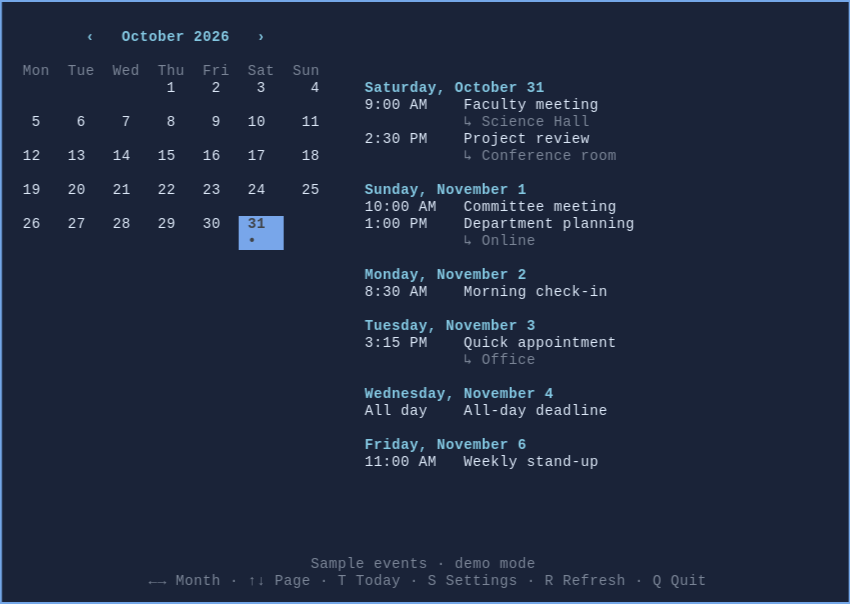
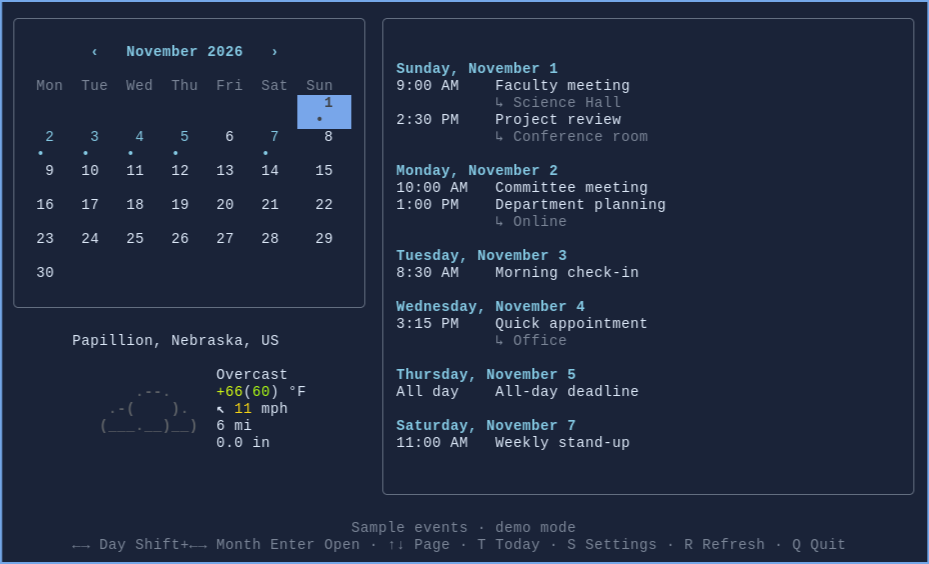
docs: describe completed calendar layout and navigation
Document responsive bordered panes, theme-aware date selection, inline weather and its optional curl requirement. Include the current application screenshot and clarify refresh, pagination, and CLI behavior.

diff --git a/README.md b/README.md
@@ -24,14 +24,18 @@ Sometimes you don't need to manage your calendar. You just need to read the damn
 - Recurring events, exceptions, cancellations, time zones, all-day and multiday appointments.
 - Cached calendars displayed immediately, nonblocking TUI refreshes, and offline fallback.
 - Automatic terminal color inheritance and WCAG AA text contrast adjustment (4.5:1) when the terminal reports its palette.
-- Keyboard navigation and clickable calendar dates.
+- Day-by-day keyboard selection with a terminal-theme-aware highlight, plus clickable calendar dates.
+- Optional current weather beneath the calendar in wide layouts, using wttr.is's own terminal artwork.
 - JSON CLI for scripts and native Waybar JSON integration.
 - No background service. It reads calendars when you run it. Revolutionary restraint.
 
 ## Screenshots
 
-Screenshots will go here. None are included yet; run `caltui --demo` to see the
-actual interface in your own terminal, with your own colors.
+![calTUI with independently bordered calendar and agenda panes, a selected date, and inline weather](assets/caltui-screenshot.png)
+
+The real application in Foot, with sample events and current weather. Run
+`caltui --demo` to see it with your own terminal colors. No artistic license
+required.
 
 ## Requirements
 
@@ -43,6 +47,11 @@ list of direct third-party dependencies is:
 - **recurring-ical-events**
 - **python-dateutil**
 - **rich**
+
+`curl` on your `PATH` and network access to `https://wttr.is` are needed only
+for optional inline weather. Missing curl or a failed request simply hides the
+report; the calendar and agenda carry on without a meteorological opinion.
+No weather library or configuration is required.
 
 An interactive terminal is needed for the TUI; Waybar is optional. Linux is the
 tested platform. The custom terminal color-query/input integration and PTY tests
@@ -160,14 +169,17 @@ without `--demo` require a configured calendar.
 | `↑` / `↓` | Previous / next agenda page |
 | `c` | Calendar view |
 | `a` | Agenda view |
-| `t` | Return to today |
+| `t` | Reset the selection, displayed month, and agenda to today |
 | `s` | Open configuration in your terminal editor |
-| `r` | Force subscription refresh |
+| `r` | Force subscription refresh; refresh weather in wide mode |
 | `q` | Quit |
+| Click a calendar date | Select the date and open its agenda |
 
 Left/right move the highlighted calendar selection, crossing months automatically.
-Shift+left/right change months while retaining the day number where possible.
-Only the selected date has a solid, terminal-palette-aware highlight. Moving the
+Shift+left/right change months while retaining the day number where possible,
+clamping to the last day of shorter months. The initial selection is today.
+Only the selected date has a solid, terminal-palette-aware highlight with a
+contrasting foreground; today has no separate styling when unselected. Moving the
 highlight leaves the agenda unchanged until Enter; clicking a date selects it
 and opens its agenda immediately. T resets both the calendar and agenda to today.
 Up/down continue paging the agenda. In compact mode, calendar navigation is
@@ -190,6 +202,9 @@ the calendar, centered without a border. It is fetched asynchronously once when
 needed with `curl -fsS --max-time 4 'https://wttr.is/?0nq'`; `r` can refresh it too.
 Weather is hidden if the complete report cannot fit, in stacked/compact layouts,
 or when the request fails. Resizing never refetches it or reduces panel space.
+The report keeps its original artwork, line breaks, and colors, with a blank row
+below the calendar border. It is an optional TUI extra; `--next` and `--waybar`
+continue reporting calendar events only.
 
 ## Command-line integration
 
